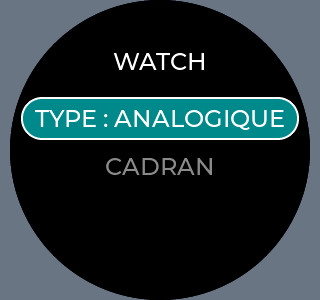
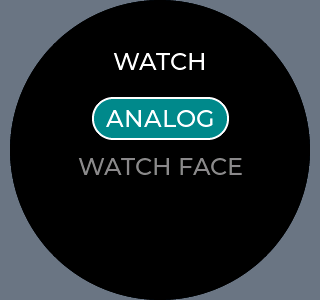
Show full-screen watch face previews with English labels

Changed region(s): [[0.0625, 0.3, 0.9375, 0.48], [0.25, 0.51, 0.75, 0.6]]

diff --git a/V2/Firmware/simulator/src/watch_ui.c b/V2/Firmware/simulator/src/watch_ui.c
@@ -37,7 +37,7 @@ static int selected_option, selected_backlight, selected_bluetooth, selected_fac
 static enum watch_dial clock_dial=DIAL_MINIMALIST;
 static int digital_dial=DIGITAL_EMBLEM;
 static struct watch_data clock_data;
-static lv_obj_t *clock_face,*preview,*preview_face,*outgoing,*dial_caption,*save_status;
+static lv_obj_t *clock_face,*preview,*preview_face,*outgoing,*save_status;
 static bool clock_face_dirty=true;
 static int sleep_progress, leave_progress;
 static bool recovery_active;
@@ -110,7 +110,7 @@ static void fit_rows(lv_obj_t *pill, lv_obj_t **labels, int count, int selected,
 
 static void refresh_watch_menu(bool animate)
 {
-    lv_label_set_text(face_labels[0],clock_style==CLOCK_ANALOG?"TYPE : ANALOGIQUE":"TYPE : NUMERIQUE");
+    lv_label_set_text(face_labels[0],clock_style==CLOCK_ANALOG?"ANALOG":"DIGITAL");
     lv_obj_align(face_labels[0],LV_ALIGN_TOP_MID,0,105);
     fit_rows(face_cursor,face_labels,2,selected_face,animate);
 }
@@ -127,7 +127,7 @@ static void slide_finished(lv_anim_t *a)
 static void finish_slides(void)
 {
     if(outgoing){lv_anim_delete(outgoing,NULL);lv_obj_delete(outgoing);outgoing=NULL;}
-    if(preview){lv_anim_delete(preview,NULL);lv_obj_set_x(preview,40);}
+    if(preview){lv_anim_delete(preview,NULL);lv_obj_set_x(preview,0);}
 }
 static void clear_preview(void)
 {
@@ -136,20 +136,13 @@ static void clear_preview(void)
 static void show_preview(int direction)
 {
     finish_slides();outgoing=preview;
-    preview=lv_obj_create(dial_view);lv_obj_remove_style_all(preview);lv_obj_set_size(preview,300,300);
-    lv_obj_set_style_radius(preview,LV_RADIUS_CIRCLE,0);lv_obj_set_style_clip_corner(preview,true,0);
-    lv_obj_remove_flag(preview,LV_OBJ_FLAG_SCROLLABLE);
-    preview_face=watch_face_create(preview,clock_style,selected_dial);lv_obj_set_x(preview_face,-10);
+    preview=watch_face_create(dial_view,clock_style,selected_dial);preview_face=preview;
     watch_face_update(preview_face,&clock_data);
-    lv_obj_set_style_transform_pivot_x(preview,0,0);lv_obj_set_style_transform_pivot_y(preview,0,0);
-    lv_obj_set_style_transform_scale(preview,205,0);lv_obj_set_pos(preview,direction?40+direction*320:40,8);
-    lv_obj_move_background(preview);
-    lv_label_set_text_fmt(dial_caption,"%d/%d  %s",selected_dial+1,watch_face_count(clock_style),watch_face_name(clock_style,selected_dial));
-    lv_obj_align(dial_caption,LV_ALIGN_TOP_MID,0,262);
+    lv_obj_set_pos(preview,direction?direction*320:0,0);
     if(!direction){if(outgoing){lv_obj_delete(outgoing);outgoing=NULL;}return;}
     lv_anim_t a;lv_anim_init(&a);lv_anim_set_exec_cb(&a,slide_x);lv_anim_set_duration(&a,220);lv_anim_set_path_cb(&a,lv_anim_path_ease_in_out);
-    lv_anim_set_var(&a,preview);lv_anim_set_values(&a,40+direction*320,40);lv_anim_start(&a);
-    lv_anim_set_var(&a,outgoing);lv_anim_set_values(&a,40,40-direction*320);lv_anim_set_completed_cb(&a,slide_finished);lv_anim_start(&a);
+    lv_anim_set_var(&a,preview);lv_anim_set_values(&a,direction*320,0);lv_anim_start(&a);
+    lv_anim_set_var(&a,outgoing);lv_anim_set_values(&a,0,-direction*320);lv_anim_set_completed_cb(&a,slide_finished);lv_anim_start(&a);
 }
 
 static void refresh_mode_menu(bool animate)
@@ -413,12 +406,11 @@ void watch_ui_create(lv_obj_t *parent)
     build_menu(backlight_view, "BACKLIGHT", light_options, backlight_labels, &backlight_cursor, 3);
     refresh_backlight(false);
     face_view = make_view(parent);
-    const char *face_options[]={"TYPE : NUMERIQUE","CADRAN"};
+    const char *face_options[]={"DIGITAL","WATCH FACE"};
     build_menu(face_view,"WATCH",face_options,face_labels,&face_cursor,2);
     save_status=text(face_view,"",&lv_font_montserrat_12,220);
     refresh_watch_menu(false);
     dial_view=make_view(parent);
-    dial_caption=text(dial_view,"",&lv_font_montserrat_14,262);
     logo_view = make_view(parent);
     logo_image = lv_image_create(logo_view);
     lv_image_set_src(logo_image, &project_logo);
@@ -768,7 +760,7 @@ const char *watch_ui_page_name(void)
     if (current_view == WATCH_OPTION_VIEW) return "OPTIONS";
     if (current_view == WATCH_BACKLIGHT_VIEW) return "BACKLIGHT";
     if (current_view == WATCH_FACE_SELECT) return "WATCH";
-    if (current_view == WATCH_DIAL_SELECT) return "CADRAN";
+    if (current_view == WATCH_DIAL_SELECT) return "WATCH FACE";
     static const char *const names[] = {"MAIN", "STATS", "SETTINGS", "MODE", "BRIGHTNESS", "SLEEP", "SCUBADIVING", "BLUETOOTH", "LEAVE", "SENSITIVITY", "HAPTICS"};
     return names[current_page];
 }

diff --git a/V2/Firmware/simulator/src/watch_faces.c b/V2/Firmware/simulator/src/watch_faces.c
@@ -11,8 +11,8 @@ struct face {
     lv_obj_t *root,*legacy,*logo,*art;
     struct watch_data data;
 };
-static const char *const analog_names[]={"MINIMALISTE","DAUPHINE","AUTOMATIQUE","RADAR","BLEU POLAIRE","CLASSIQUE IVOIRE","SOLAIRE"};
-static const char *const digital_names[]={"EMBLEME","TERMINAL","TOTEM","SPORT","SCEAU"};
+static const char *const analog_names[]={"MINIMALIST","DAUPHINE","AUTOMATIC","RADAR","POLAR BLUE","CLASSIC IVORY","SOLAR"};
+static const char *const digital_names[]={"EMBLEM","TERMINAL","TOTEM","SPORT","SEAL"};
 static const char *const days[]={"SUN","MON","TUE","WED","THU","FRI","SAT"};
 static const char *const months[]={"JAN","FEB","MAR","APR","MAY","JUN","JUL","AUG","SEP","OCT","NOV","DEC"};
 int watch_face_count(enum watch_clock_style type){return type==CLOCK_ANALOG?DIAL_COUNT:DIGITAL_COUNT;}

diff --git a/V2/Firmware/simulator/tests/check_watch_dials.py b/V2/Firmware/simulator/tests/check_watch_dials.py
@@ -38,3 +38,6 @@ for normal,changed in [('digital-0-x1','emblem-2359'),('digital-1-x1','terminal-
 roman=[image('solar-roman-'+s).crop((105,237,215,260)) for s in ('87','zero','100')]
 assert all(ImageChops.difference(roman[i],roman[j]).getbbox() for i,j in [(0,1),(0,2),(1,2)]),'Roman battery frozen'
 print('WATCH IMAGES PASS: twelve distinct live faces, minute ticks, LCD theme, radar direction/clearance, Roman battery and x1/x2 geometry')
+
+assert ImageChops.difference(image('carousel-solar'),faces['analog',6]).getbbox() is None,'Preview is scaled, cropped or captioned instead of full-screen'
+print('FULLSCREEN PREVIEW PASS: selector matches active face pixel for pixel')

diff --git a/V2/Firmware/simulator/README.md b/V2/Firmware/simulator/README.md
@@ -52,23 +52,23 @@ Startup animates the octopus logo into the watch face, then stays on the clock.
 No dive or depth replay starts automatically. Turn the
 crown and fill the exit ring to reach **Watch / Diving / Compass / Options**.
 Options contains **Bluetooth / Watch / Backlight / Haptics / Sleep**.
-Watch has two rows: **TYPE : ANALOGIQUE / NUMERIQUE** and **CADRAN**.
-Tap TYPE to switch without leaving Watch. CADRAN opens the corresponding live
-face preview: turn the crown to slide between faces, wrapping at either end;
+Watch has two rows: **ANALOG / DIGITAL** and **WATCH FACE**.
+Tap ANALOG/DIGITAL to switch without leaving Watch. WATCH FACE opens the corresponding full-screen live
+face preview, at exactly the active face size with no title or counter below it: turn the crown to slide between faces, wrapping at either end;
 tap to apply and return to Watch, or double tap to cancel. Scrolling an unconfirmed
 preview never changes the active face. Rapid crown input replaces the pending
 animation without queuing slides.
 
-Analog: **Minimaliste**, **Dauphine**, **Automatique**, **Radar** (R5),
-**Bleu polaire** (A10), **Classique ivoire** (A1), **Solaire** (A5).
-Digital: **Embleme** (D7), **Terminal** (D3), **Totem** (D6), **Sport** (1990 LCD),
-**Sceau** (D8). The old digital face is removed. D7 has a 20% larger background
+Analog: **Minimalist**, **Dauphine**, **Automatic**, **Radar** (R5),
+**Polar blue** (A10), **Classic ivory** (A1), **Solar** (A5).
+Digital: **Emblem** (D7), **Terminal** (D3), **Totem** (D6), **Sport** (1990 LCD),
+**Seal** (D8). The old digital face is removed. D7 has a 20% larger background
 logo and larger hour digits. Sport fills the aperture with LCD colour, without
 a logo, and uses a five-segment LCD battery. Terminal uses a text battery bar.
-Solaire uses Liberation Serif for the date and Roman battery level (87 → LXXXVII,
+Solar uses Liberation Serif for the date and Roman battery level (87 → LXXXVII,
 100 → C, zero → N). Radar's left gauge loses segments from the top downward.
 All faces use the PC's live time, date and battery control; analog faces have no
-seconds hand. Automatique is a face name, not automatic mode switching.
+seconds hand. Automatic is a face name, not automatic mode switching.
 
 The selected type and one face per type survive process restarts in
 `watch-preferences.txt`, alongside apnea preferences under `DIVE_WATCH_STATE_DIR`
